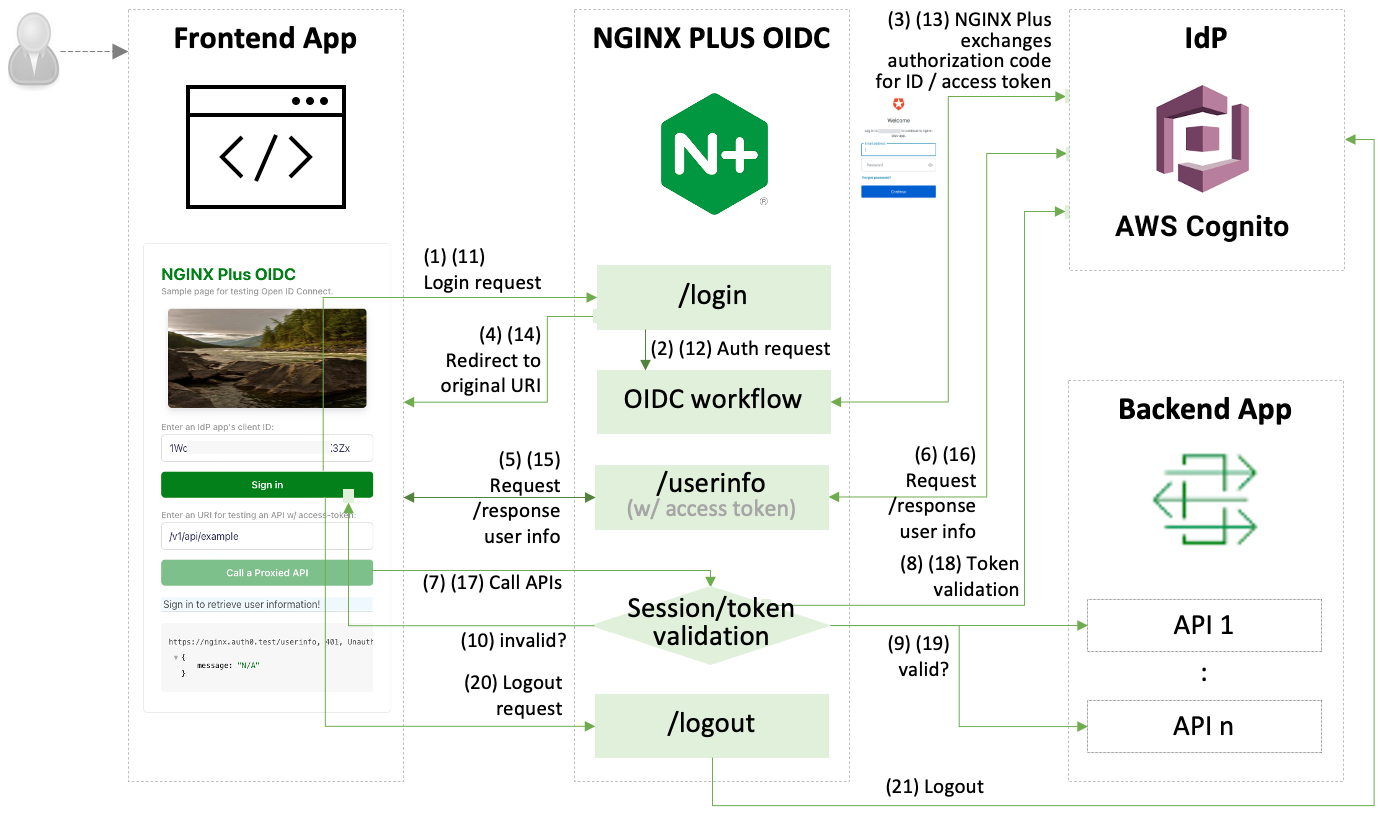
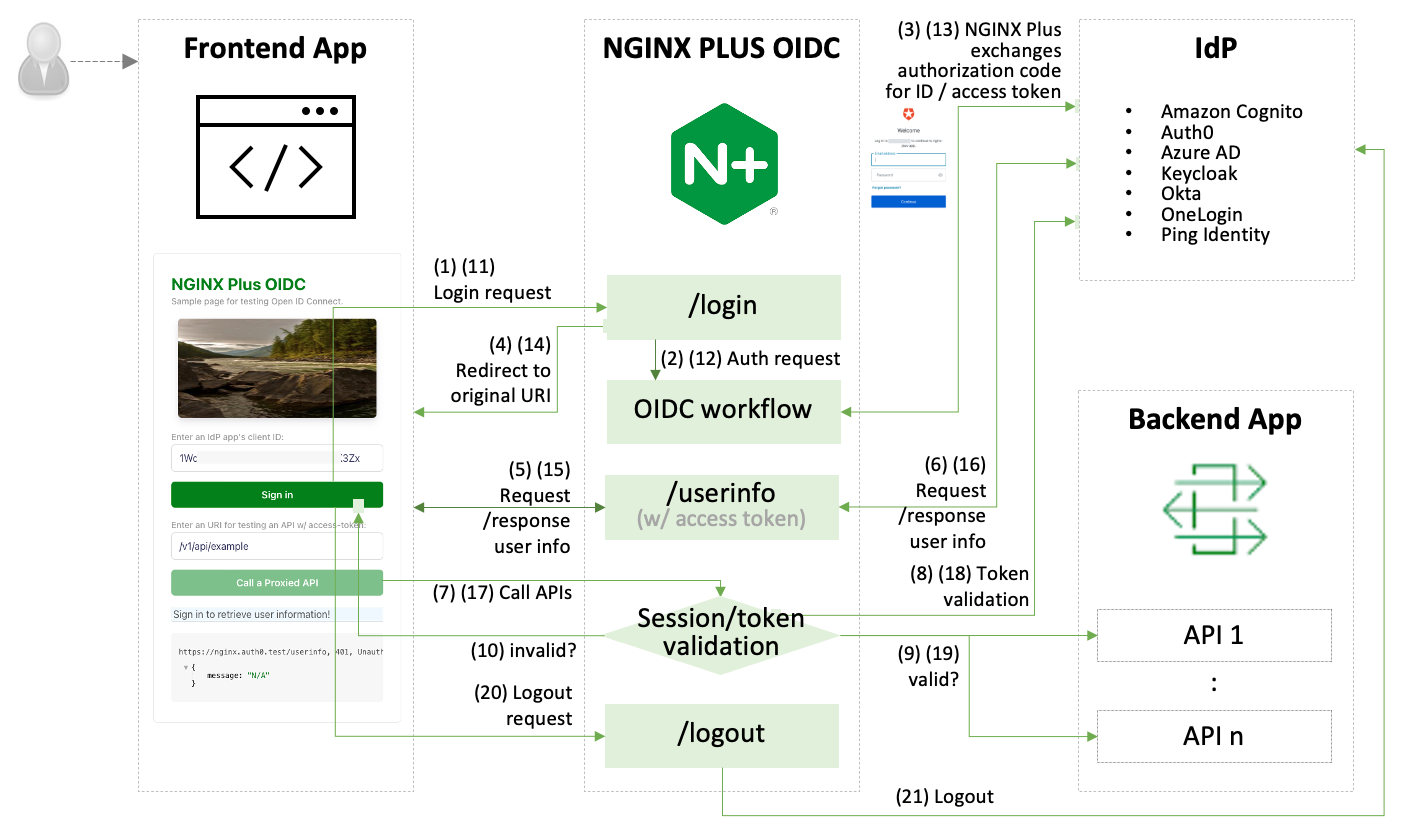
feat: example of multiple IdP configuration

diff --git a/README.md b/README.md
@@ -1,10 +1,6 @@
 # nginx-oidc-multi-idps
 
-NGINX Plus OIDC w/ Multiple Identity Providers Integration
-
-# nginx-oidc-amazon-cognito
-
-Reference implementation of NGINX Plus as relying party for OpenID Connect authentication w/ multiple IdPs.
+Reference implementation of NGINX Plus as relying party for OpenID Connect authentication to support multiple IdPs per cluster.
 
 This repo provides the information of how to set up multiple IdPs, integrate with NGINX Plus, and locally test using a containerized NGINX Plus app, a frontend OIDC simulation tool, and a NGINX Dev Portal.
 
@@ -39,6 +35,6 @@ This repo provides the information of how to set up multiple IdPs, integrate wit
 
 - [NGINX OIDC Core v1.0: Forked from NGINX GitHub](https://github.com/nginx-openid-connect/nginx-oidc-core-v1)
 - [NGINX OIDC Core v2.0: Forked from NGINX GitHub](https://github.com/nginx-openid-connect/nginx-oidc-core)
-- [NGINX Plus: Single Sign-On With Amazon Cognito](https://docs.nginx.com/nginx/deployment-guides/single-sign-on/cognito/)
+- [NGINX Plus: Single Sign-On](https://docs.nginx.com/nginx/deployment-guides/single-sign-on)
 - [NGINX Management Suite](https://docs.nginx.com/nginx-management-suite/)
 - [NGINX API Connectivity Manager](https://docs.nginx.com/nginx-management-suite/acm/)
